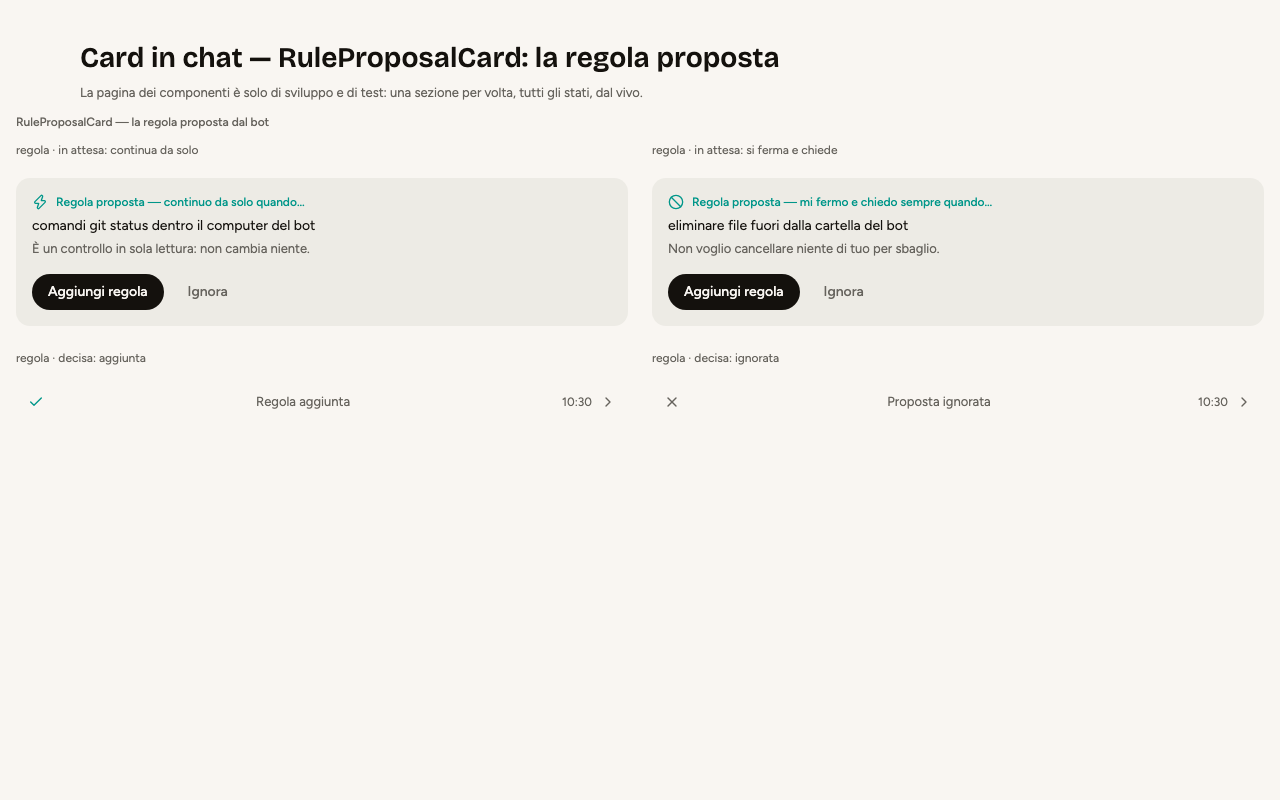
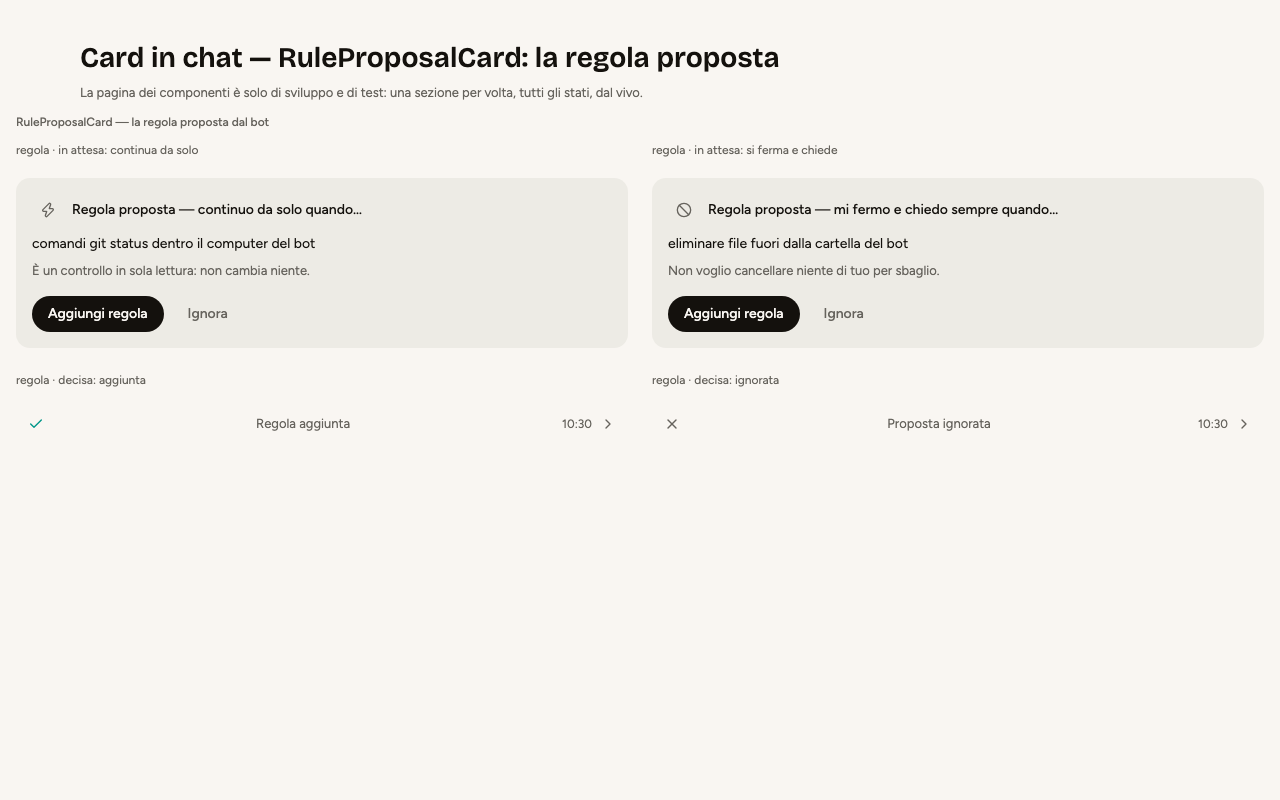
fase conversione-chat K3 (galleria): riapprovate a mano le 20 catture cambiate da K3 (18) e le 2 nuove; la corsa intera dà 162 su 162 uguali, 0 rosse
Guardate prima con --solo, senza --approva (due corse: la prima ha preso un mio errore — due righe di commento // dentro il JSX del Rifiuta, rese come testo: la riga delle azioni cresceva e componenti-card-approvazione-1 usciva dal viewport; corretto nel commit prima di questo — e la sezione nuova troppo alta, 986 su 800: ora sta in 650 circa). Poi ogni cattura guardata e copiata a mano in approvate/, una per una. R1–R3 verdi su tutte, chat-squadra-coda compresa (senza maschera, con le card della timeline sotto la coda).

Cosa cambia, scena per scena:
- componenti-card-approvazione-1 (ApprovalCard in attesa, 4 campioni): la card è il guscio ChatCard col TITOLO GRANDE com'era (text-title), ma col ritmo del guscio — il blocco del comando a 8 px dal titolo (12), le righe grigie a 8 (4: «tramite Composio»), il motivo a 8, le azioni a 16 come prima; l'incavo degli argomenti Composio (CardBlock) ha etichetta grigia e valore affiancati come prima, a 8 px (12). «Rifiuta» è rosso pieno (difetto e: era un secondario su fondo card). Il comando è Code su fondo card: stesso aspetto (chiaro: bianco; scuro: l'incavo scuro). La sezione resta nel viewport (742).
[…]

diff --git a/src/renderer/src/galleria/componenti.tsx b/src/renderer/src/galleria/componenti.tsx
@@ -768,7 +768,7 @@ const Sezione = ({ id }: { id: IdSezione }) => {
       {id === 'card-corpo' && (
         <Section title="chat-card, disclosure, code, tech-details — il corpo di una card in chat" testId="galleria-section-card-corpo">
           <div className="flex flex-col gap-6">
-            <Riga label="chat-card · il titolo GRANDE (la frase che si legge prima di decidere), la riga grigia, il comando (Code su fondo card), l'incavo (CardBlock), i dettagli tecnici chiusi (TechDetails)">
+            <Riga label="chat-card · il titolo grande, la riga grigia, il comando (Code), l’incavo (CardBlock), i dettagli tecnici chiusi (TechDetails)">
               <ChatCard
                 tone="waiting"
                 titoloGrande
@@ -784,22 +784,19 @@ const Sezione = ({ id }: { id: IdSezione }) => {
                 <TechDetails testo="run-command · nel computer del bot" />
               </ChatCard>
             </Riga>
-            <Riga label="disclosure · la riga di sistema che si apre: chiusa · aperta · quella che non apre (porta al riquadro del campo); a destra la riga <summary> di un <details>, con il codice che va a capo">
-              <div className="flex w-full flex-col">
+            <Riga label="disclosure · la riga che si apre (chiusa · aperta · che non apre) — il summary di un details col codice — tech-details aperto, code in una frase">
+              <div className="flex w-96 flex-col">
                 <Disclosure tone="ok" segno={<Check className="size-4" />} testo="Consentito una volta · git status --short" metadato="10:44" aperto={false} apribile />
                 <Disclosure tone="muted" segno={<X className="size-4" />} testo="Rifiutato · pulizia dei vecchi report" metadato="10:45" aperto apribile />
                 <Disclosure tone="muted" segno={<ArrowDown className="size-4" aria-hidden="true" />} testo="In attesa della tua scelta · qui sotto" />
               </div>
-              <details open className="w-full max-w-96">
+              <details open className="w-96">
                 <DisclosureSummary icon={ScrollText}>Riepilogo turni precedenti</DisclosureSummary>
                 <Code aCapo className="mt-1">L'utente ha chiesto di ordinare i preventivi per cliente.</Code>
               </details>
-            </Riga>
-            <Riga label="code · il blocco che va a capo (fondo tenue, testo grigio) e il pezzo dentro una frase; tech-details · aperto: il testo tecnico com'è arrivato dal daemon">
-              <Code aCapo className="max-w-96">cd ~/Progetti && npm test -- --run</Code>
-              <div className="flex w-full max-w-96 flex-col gap-2">
+              <div className="flex w-96 flex-col gap-2">
                 <TechDetails aperto testo="not installable here: the entry exposes neither remotes nor npm packages" />
-                <Text size="small">La schedule è <Code inline>(0 9 * * 1)</Code>, nel fuso del bot.</Text>
+                <Text size="small">Il pezzo in una frase: <Code inline>(0 9 * * 1)</Code>.</Text>
               </div>
             </Riga>
           </div>
